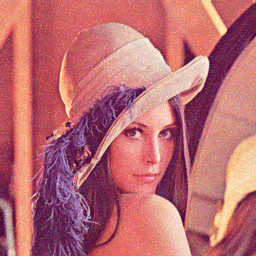
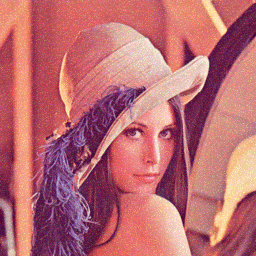
Whole working pipeline with 2 steps

diff --git a/lib/stdNlBayes/stdNlBayes.cpp b/lib/stdNlBayes/stdNlBayes.cpp
@@ -59,7 +59,7 @@ StdNlBayes::StdNlBayes(double _sigma) : sigma(_sigma)
   n2 = 7*k2;
   //// FOR DEBUG
   //n1 = 2*k1;
-  //n1 = 2*k2;
+  //n2 = 2*k2;
 
   //N_1 and N_2
   switch(k1)
@@ -111,8 +111,8 @@ void StdNlBayes::run()
   
   //Computing all the stacks
   // All the patches for the y channel
-  ImageStack yuvStack;
-  yuvStack.fill(ChannelStack(image[0].rows(),vector<PatchStack>(image[0].cols(),PatchStack(0,MatrixXd::Zero(k1,k1)))));
+  ImageStack* yuvStack = new ImageStack();
+  yuvStack->fill(ChannelStack(image[0].rows(),vector<PatchStack>(image[0].cols(),PatchStack(0,MatrixXd::Zero(k1,k1)))));
   for(int i=0;i<image[0].rows();i++)
   {
     for(int j=0;j<image[0].cols();j++)
@@ -145,9 +145,9 @@ void StdNlBayes::run()
       OrderedIt itV = vList.begin();
       for(OrderedIt it = yList.begin(); it != yList.end() && count < N_1;it++)
       {
-        yuvStack[0][i][j].push_back(it->first);
-        yuvStack[1][i][j].push_back(itU->first);
-        yuvStack[2][i][j].push_back(itV->first);
+        (*yuvStack)[0][i][j].push_back(it->first);
+        (*yuvStack)[1][i][j].push_back(itU->first);
+        (*yuvStack)[2][i][j].push_back(itV->first);
         count++;
         itU++;
         itV++;
@@ -158,8 +158,8 @@ void StdNlBayes::run()
   cout << "Stack computed for the first step." << endl;
   //Collaborative filtering
   double M_1 = N_1 * pow(k1,2);
-  ImageStack colStack;
-  colStack.fill(ChannelStack(image[0].rows(),vector<PatchStack>(image[0].cols(),PatchStack(0,MatrixXd::Zero(k1,k1)))));
+  ImageStack* colStack = new ImageStack();
+  colStack->fill(ChannelStack(image[0].rows(),vector<PatchStack>(image[0].cols(),PatchStack(0,MatrixXd::Zero(k1,k1)))));
   for(int channel = 0; channel < 3; channel++)
   {
     for(int i=0;i<image[0].rows();i++)
@@ -167,10 +167,10 @@ void StdNlBayes::run()
       for(int j=0;j<image[0].cols();j++)
       {
         //Estimating sigma_p
-        PatchStack& currentStack = yuvStack[channel][i][j];
+        PatchStack& currentStack = (*yuvStack)[channel][i][j];
+        if(currentStack.size() < 2) continue;
         //By definition p is the first patch of the stack
-        MatrixXd p;
-        if(currentStack.size() > 0) p = currentStack[0]; else continue;
+        MatrixXd p = currentStack[0];
         double sigmaP = estimateSigmaP(currentStack,M_1);
         MatrixXd qBasic = MatrixXd::Zero(k1,k1);
         //Building an estimate for each patch of each stack
@@ -180,13 +180,12 @@ void StdNlBayes::run()
             qBasic += currentStack[k];
           qBasic /= currentStack.size();
           for(int k=0;k<currentStack.size();k++)
-            colStack[channel][i][j].push_back(qBasic);
+            (*colStack)[channel][i][j].push_back(qBasic);
         }
         else
         {
           MatrixXd cp = MatrixXd::Zero(k1,k1);
           MatrixXd pAverage = MatrixXd::Zero(k1,k1);
-          if(currentStack.size() < 2) continue;
           for(int k=0;k<currentStack.size();k++)
           {
             MatrixXd diff = currentStack[k] - p;
@@ -195,19 +194,19 @@ void StdNlBayes::run()
           }
           pAverage /= currentStack.size();
           cp /= (currentStack.size()-1);
-          MatrixXd id(k1,k1);
-          id.setIdentity();
+          MatrixXd id = MatrixXd::Identity(k1,k1);
           for(int k=0;k<currentStack.size();k++)
           {
             qBasic = pAverage + 
                      (cp - beta1 * pow(sigma,2) * id)*cp.inverse()*(currentStack[k]-pAverage);
-            colStack[channel][i][j].push_back(qBasic);
+            (*colStack)[channel][i][j].push_back(qBasic);
           }
         }
       }
     }
     cout << "Performed collaboration for channel " << channel << endl;
   }
+  delete yuvStack;
   cout << "Collaborative filtering done" << endl;
   //Aggregation
   ImageBuffer bufferIm = zeroImage(image[0].rows(),image[0].cols());
@@ -218,7 +217,7 @@ void StdNlBayes::run()
     {
       for(int j=0;j<image[0].cols();j++)
       {
-        PatchStack& currentStack = colStack[channel][i][j];
+        PatchStack& currentStack = (*colStack)[channel][i][j];
         if(currentStack.size() < N_1)
           continue;
         for(int k=0;k<currentStack.size();k++)
@@ -231,11 +230,135 @@ void StdNlBayes::run()
       }
     }
   }
+  delete colStack;
   for(int channel = 0; channel<3;channel++)
   {
+    //Avoid 0 division
+    bufferW[channel] = bufferW[channel].unaryExpr([](double v){return v==0?1:v;});
     image_u[channel] = bufferIm[channel].cwiseQuotient(bufferW[channel]);
   }
-  image_u = rgb2yuv(image_u,true);
+  image_u_rgb = rgb2yuv(image_u,true);
+
+  //////SECOND STEP//////
+  //Computing the second stacks
+  int w2 = (n2-1)/2;
+  int p2 = (k2-1)/2;
+  ImageStack* yuvStack2 = new ImageStack();
+  yuvStack2->fill(ChannelStack(image[0].rows(),vector<PatchStack>(image[0].cols(),PatchStack(0,MatrixXd::Zero(k1,k1)))));
+  for(int i=0;i<image[0].rows();i++)
+  {
+    for(int j=0;j<image[0].cols();j++)
+    {
+      OrderedList yList;
+      OrderedList uList;
+      OrderedList vList;
+      //Computing patches
+      for(int iPatch = -w2; iPatch <= w2; iPatch++)
+      {
+        for(int jPatch = -w2;jPatch <= w2; jPatch++)
+        {
+          if(i-p2 < 0 || image[0].rows() <= i+p2)
+            continue;
+          if(j-p2 < 0 || image[0].cols() <= j+p2)
+            continue;
+          if(i+iPatch-p2 < 0 || image[0].rows() <= i+iPatch+p2)
+            continue;
+          if(j+jPatch-p2 < 0 || image[0].cols() <= j+jPatch+p2)
+            continue;
+          double curDist = getDistance2(image_u,i+iPatch,j+jPatch,i,j,p2,p2) / (3*pow(k2,2));
+          yList.insert(Patch(image_u[0].block(i+iPatch-p2,j+jPatch-p2,k2,k2),curDist));
+          uList.insert(Patch(image_u[1].block(i+iPatch-p2,j+jPatch-p2,k2,k2),curDist));
+          vList.insert(Patch(image_u[2].block(i+iPatch-p2,j+jPatch-p2,k2,k2),curDist));
+        }
+      }
+      //Storing according to the tau criterion
+      //Computing tau
+      double tau = tau0;
+      if(yList.size() >= N_2)
+      {
+        OrderedIt it = yList.begin();
+        std::advance(it, N_2);
+        tau = max(tau0,it->second);
+      }
+      //Storing the patches whose distance is at most tau 
+      OrderedIt itU = uList.begin();
+      OrderedIt itV = vList.begin();
+      for(OrderedIt it = yList.begin(); it != yList.end() && it->second <= tau;it++)
+      {
+        (*yuvStack2)[0][i][j].push_back(it->first);
+        (*yuvStack2)[1][i][j].push_back(itU->first);
+        (*yuvStack2)[2][i][j].push_back(itV->first);
+        itU++;
+        itV++;
+      }
+    }
+    cout << "line : " << i << " out of " << image[0].rows() << endl;
+  }
+  cout << "Stack computed for the second step." << endl;
+  //Collaborative filtering
+  ImageStack* colStack2 = new ImageStack();
+  colStack2->fill(ChannelStack(image[0].rows(),vector<PatchStack>(image[0].cols(),PatchStack(0,MatrixXd::Zero(k1,k1)))));
+  for(int channel = 0; channel < 3; channel++)
+  {
+    for(int i=0;i<image[0].rows();i++)
+    {
+      for(int j=0;j<image[0].cols();j++)
+      {
+        PatchStack& currentStack = (*yuvStack2)[channel][i][j];
+        if(currentStack.size() < 2) continue;
+        //By definition p is the first patch of the stack
+        MatrixXd p = currentStack[0];
+        MatrixXd cpBasic = MatrixXd::Zero(k2,k2);
+        MatrixXd pAverageBasic = MatrixXd::Zero(k2,k2);
+        for(int k=0;k<currentStack.size();k++)
+        {
+          MatrixXd diff = currentStack[k] - p;
+          cpBasic += diff*diff.transpose();
+          pAverageBasic += currentStack[k];
+        }
+        pAverageBasic /= currentStack.size();
+        cpBasic /= (currentStack.size()-1);
+        MatrixXd id = MatrixXd::Identity(k2,k2);
+        for(int k=0;k<currentStack.size();k++)
+        {
+          MatrixXd qFinal = pAverageBasic + 
+             cpBasic * 
+             (cpBasic+beta2*pow(sigma,2)*id).inverse() * 
+             (currentStack[k]-pAverageBasic);
+          (*colStack2)[channel][i][j].push_back(qFinal);
+        }
+      }
+    }
+    cout << "Performed collaboration for channel " << channel << endl;
+  }
+  cout << "Collaborative filtering done" << endl;
+  //Aggregation
+  ImageBuffer bufferIm2 = zeroImage(image[0].rows(),image[0].cols());
+  ImageBuffer bufferW2 = zeroImage(image[0].rows(),image[0].cols());
+  for(int channel = 0; channel < 3; channel++)
+  {
+    for(int i=0;i<image[0].rows();i++)
+    {
+      for(int j=0;j<image[0].cols();j++)
+      {
+        PatchStack& currentStack = (*colStack2)[channel][i][j];
+        for(int k=0;k<currentStack.size();k++)
+        {
+          int i0 = i - p2;
+          int j0 = j - p2;
+          bufferIm2[channel].block(i0,j0,k2,k2) += currentStack[k];
+          bufferW2[channel].block(i0,j0,k2,k2) += MatrixXd::Ones(k2,k2);
+        }
+      }
+    }
+  }
+  for(int channel = 0; channel<3; channel++)
+  {
+    //Avoid 0 division
+    bufferW2[channel] = bufferW2[channel].unaryExpr([](double v){return v==0?1:v;});
+    image_final[channel] = bufferIm2[channel].cwiseQuotient(bufferW2[channel]);
+  }
+  image_final_rgb = rgb2yuv(image_final,true);
 }
 
 /* 
@@ -335,7 +458,7 @@ Saving the resulting png image to filePath
 */
 void StdNlBayes::saveResult(string filePath) const
 {
-  saveImage(image_u,filePath);
+  saveImage(image_final_rgb,filePath);
 }
 
 /*
@@ -351,6 +474,17 @@ double StdNlBayes::getDistance(ImageChannel chan, int i0, int j0, int i1, int j1
 }
 
 /*
+Compute distance between patches for second step
+*/
+double StdNlBayes::getDistance2(ImageType im, int i0, int j0, int i1, int j1, int w, int h) const
+{
+  double dist = 0.;
+  for(int channel=0;channel<3;channel++)
+    dist += getDistance(im[channel],i0,j0,i1,j1,w,h);
+  return dist;
+}
+
+/*
 Estimate standard deviation of a stack of similar patches
 */
 double StdNlBayes::estimateSigmaP(const PatchStack stack, double M_1) const
@@ -358,5 +492,6 @@ double StdNlBayes::estimateSigmaP(const PatchStack stack, double M_1) const
   double sigmaP = 0;
   for(int i=0;i<stack.size();i++)
     sigmaP += (1/M_1)*stack[i].cwiseProduct(stack[i]).sum() - pow((1/M_1)*stack[i].sum(),2);
-  return M_1 / (M_1 - 1.) * sigmaP;
+  return sqrt(M_1 / (M_1 - 1.) * sigmaP);
 }
+

diff --git a/lib/stdNlBayes/stdNlBayes.h b/lib/stdNlBayes/stdNlBayes.h
@@ -48,12 +48,17 @@ public:
   void saveResult(std::string filePath) const;
   //Compute distance between patches
   double getDistance(ImageChannel chan, int i0, int j0, int i1, int j1, int w, int h) const;
+  //Compute distance between patches for second step
+  double getDistance2(ImageType im, int i0, int j0, int i1, int j1, int w, int h) const;
   //Estimate standard deviation of a stack of similar patches
   double estimateSigmaP(const PatchStack stack, double M_1) const;
 private:
   ImageType image;
   ImageType image_yuv;
   ImageType image_u; //Estimate at the end of the first step
+  ImageType image_final;
+  ImageType image_final_rgb;
+  ImageType image_u_rgb;
   Eigen::Matrix3d rgb2yuv_mat;
   Eigen::Matrix3d yuv2rgb_mat;
 
